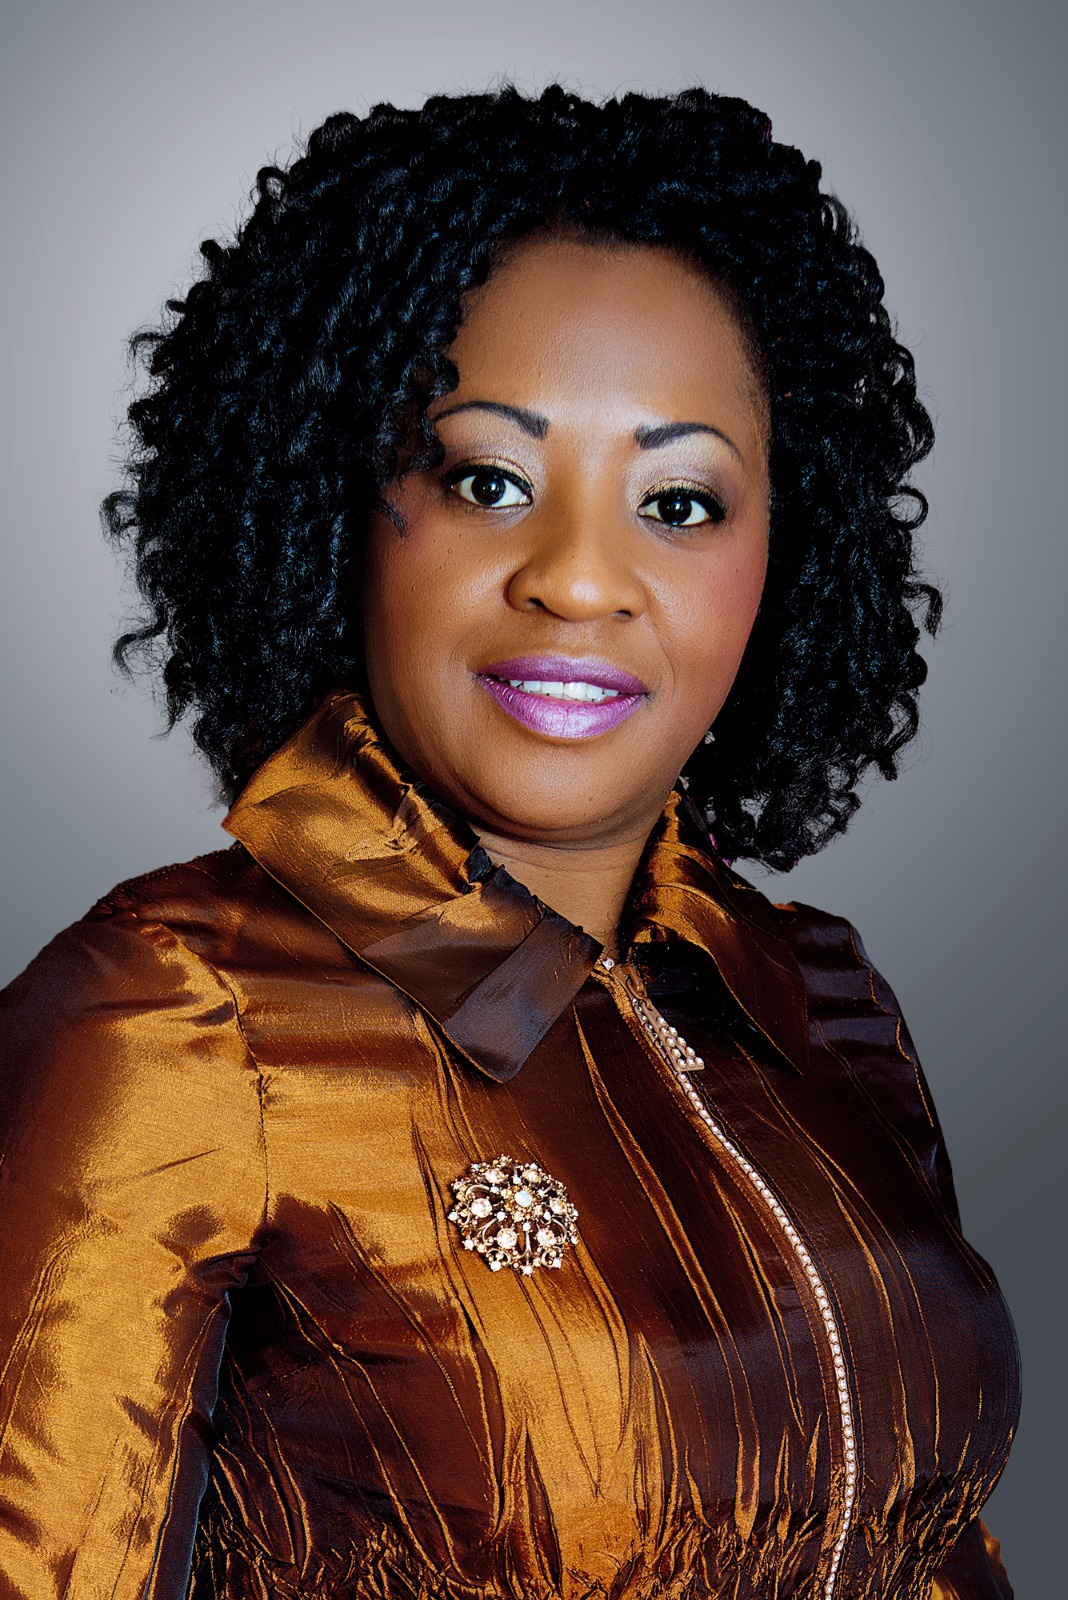
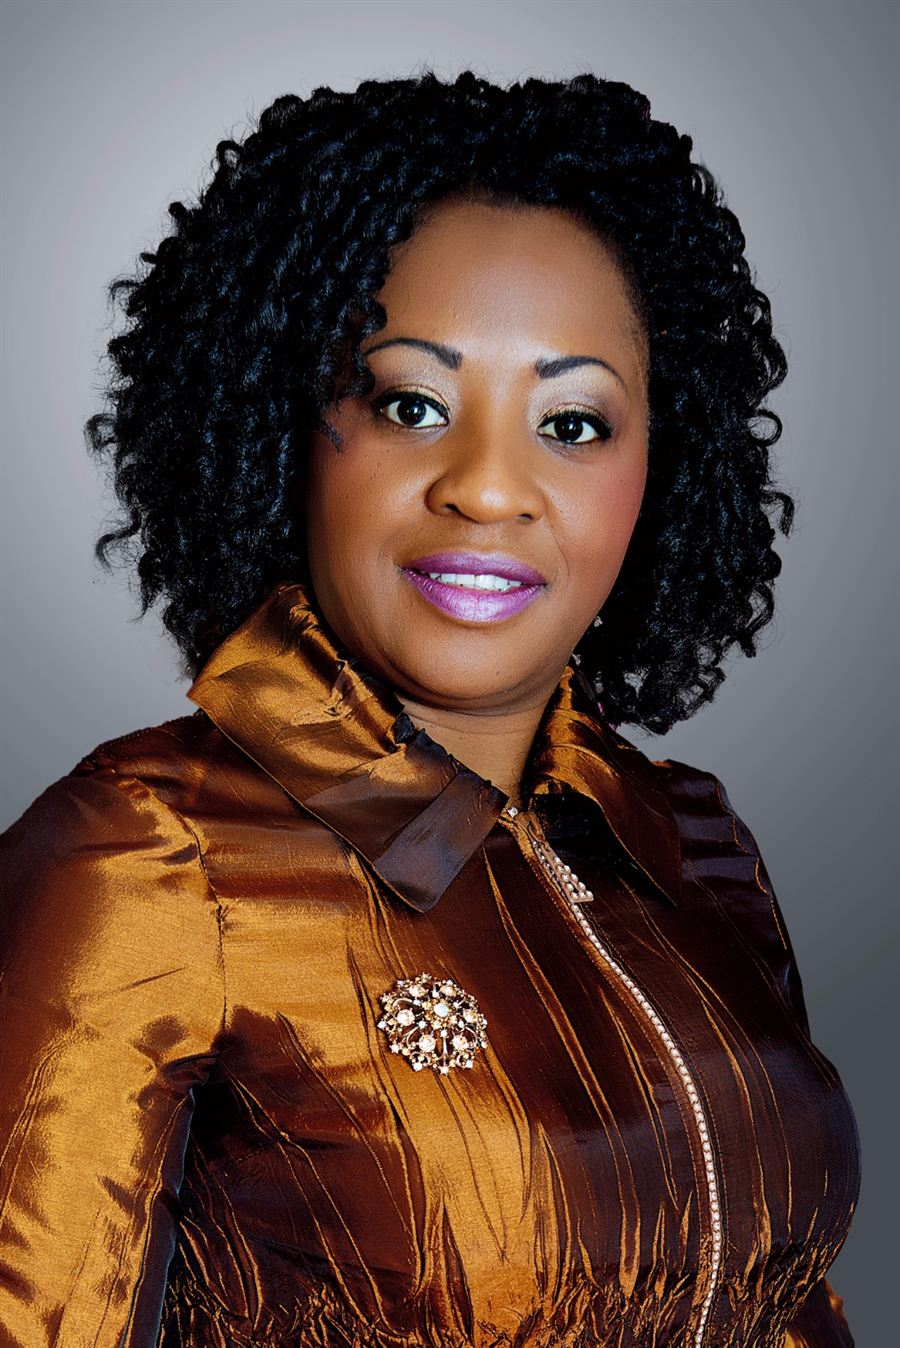
Site audit fixes: one h1 on the homepage, Church structured data, lighter photos
- Homepage hero: only the first slide headline is an h1; the others are
  h2.hero__title styled the same (template in studio/shared/render.js)
- Homepage <head>: schema.org Church data built from Site Settings
  (cms:church-schema)
- Plan a Visit FAQ: times written in the site style (10:00 AM, 7:30 PM)
- Resized pastor-olu.jpeg, pastor-message.jpg and hero-3.jpg (1.4 MB -> 0.75 MB)
- sitemap.xml: lastmod updated for pages changed on 2026-11-14
- CLAUDE.md: current page list, hosting, menu and open launch items

diff --git a/index.html b/index.html
@@ -16,6 +16,42 @@
   <meta property="og:image" content="https://www.mercyseatchapel.org/assets/images/church-1705.jpg">
   <meta property="og:image:alt" content="Mercy Seat Chapel">
   <meta name="twitter:card" content="summary_large_image">
+  <!-- Church details for search engines (address, phone, social profiles), written from Site Settings in the dashboard -->
+  <!-- cms:church-schema -->
+  <script type="application/ld+json">
+  {
+    "@context": "https://schema.org",
+    "@type": "Church",
+    "name": "Mercy Seat Chapel",
+    "url": "https://www.mercyseatchapel.org/",
+    "logo": "https://www.mercyseatchapel.org/assets/images/mercy-seat-logo-blue.png",
+    "image": "https://www.mercyseatchapel.org/assets/images/church-1705.jpg",
+    "telephone": "+13017408118",
+    "email": "info@mercyseatchapel.org",
+    "address": {
+      "@type": "PostalAddress",
+      "streetAddress": "17604 Washington Grove Lane",
+      "addressLocality": "Gaithersburg",
+      "addressRegion": "MD",
+      "postalCode": "20877",
+      "addressCountry": "US"
+    },
+    "hasMap": "https://www.google.com/maps/search/?api=1&query=17604+Washington+Grove+Lane+Gaithersburg+MD+20877",
+    "parentOrganization": {
+      "@type": "Organization",
+      "name": "The Redeemed Christian Church of God",
+      "url": "https://rccg.org"
+    },
+    "sameAs": [
+      "https://www.youtube.com/c/Mercyseatchapel",
+      "https://www.instagram.com/mercyseatchapel/",
+      "https://www.facebook.com/Mercyseatchapel/",
+      "https://twitter.com/mercyseatchapel",
+      "https://www.tiktok.com/@mercyseatchapel"
+    ]
+  }
+  </script>
+  <!-- /cms:church-schema -->
   <link rel="preconnect" href="https://fonts.googleapis.com">
   <link rel="preconnect" href="https://fonts.gstatic.com" crossorigin>
   <link href="https://fonts.googleapis.com/css2?family=Montserrat:wght@600;700;800&family=DM+Sans:opsz,wght@9..40,400;9..40,500;9..40,600;9..40,700&display=swap" rel="stylesheet">
@@ -59,11 +95,11 @@
                 <p class="hero__lead">A vibrant community, offering faith, love, hope and a wide range of resources, events, and uplifting messages</p>
               </div>
               <div class="hero__text">
-                <h1>Encounter His <em>Presence</em>. Discover your <em>Purpose</em>.</h1>
+                <h2 class="hero__title">Encounter His <em>Presence</em>. Discover your <em>Purpose</em>.</h2>
                 <p class="hero__lead">Through worship, the Word and prayer, experience God in a way that transforms every area of your life.</p>
               </div>
               <div class="hero__text">
-                <h1>Come as you are. There’s a <em>place</em> for <em>you</em> here.</h1>
+                <h2 class="hero__title">Come as you are. There’s a <em>place</em> for <em>you</em> here.</h2>
                 <p class="hero__lead">Whoever you are and wherever you’re from, you’ll find a warm welcome and a church family ready to walk with you.</p>
               </div>
               <!-- /cms:hero-texts -->

diff --git a/studio/shared/render.js b/studio/shared/render.js
@@ -207,6 +207,27 @@ export function recurringAsSlide(e, today) {
 }
 
 /** Events page: one row of "Regular gatherings". */
+/** Homepage <head>: schema.org "Church" details for search engines (name, address, phone,
+    email, social profiles), taken from Site Settings so they never disagree with the footer. */
+export function churchSchema(site, base = "https://www.mercyseatchapel.org") {
+  const m = String(site.address || "").match(/^(.+?),\s*([^,]+),\s*([A-Z]{2})\s+(\d{5})/); // "street, city, ST 12345"
+  const data = {
+    "@context": "https://schema.org",
+    "@type": "Church",
+    name: "Mercy Seat Chapel",
+    url: base + "/",
+    logo: base + "/assets/images/mercy-seat-logo-blue.png",
+    image: base + "/assets/images/church-1705.jpg", // same picture as the homepage link preview
+    telephone: site.phoneHref ? site.phoneHref.replace(/^tel:/, "") : undefined,
+    email: site.email || undefined,
+    address: m ? { "@type": "PostalAddress", streetAddress: m[1], addressLocality: m[2], addressRegion: m[3], postalCode: m[4], addressCountry: "US" } : undefined,
+    hasMap: site.mapsUrl || undefined,
+    parentOrganization: { "@type": "Organization", name: "The Redeemed Christian Church of God", url: "https://rccg.org" },
+    sameAs: Object.values(site.social || {}).filter((u) => /^https?:/.test(u))
+  };
+  return `<script type="application/ld+json">\n${JSON.stringify(data, null, 2).replace(/</g, "\\u003c")}\n</script>`;
+}
+
 /** Plan a Visit FAQ: every regular gathering in one sentence, with when it happens in brackets, e.g.
     "Our regular gatherings include Sunday Service (every Sunday, 10:00 AM), …, and Morning Glory (1st of every month, 6:00 AM)." */
 const lowerFirst = (s) => s.charAt(0).toLowerCase() + s.slice(1);
@@ -277,7 +298,8 @@ export function heroParts(c, home) {
   }).join("\n");
   const texts = slides.map((s, i) => lines(
     `<div class="hero__text${i === 0 ? " is-active" : ""}">`,
-    `  <h1>${emphasis(s.heading)}</h1>`,
+    // One h1 per page: the first slide's headline; later slides use an h2 that looks the same
+    i === 0 ? `  <h1>${emphasis(s.heading)}</h1>` : `  <h2 class="hero__title">${emphasis(s.heading)}</h2>`,
     s.lead && `  <p class="hero__lead">${esc(s.lead)}</p>`,
     `</div>`)).join("\n");
   const thumbs = slides.map((s, i) => {

diff --git a/plan-a-visit.html b/plan-a-visit.html
@@ -66,7 +66,7 @@
             </details>
             <details>
               <summary>When and where are the services?<span class="plus"><i data-lucide="plus"></i></span></summary>
-              <div class="faq__body"><p>We hold two weekly services: 10:00am on Sundays and 7:30pm on Tuesdays respectively. The first Sunday of each month is Thanksgiving Sunday, at 10am. All services take place in our main auditorium and are streamed live. We also hold a Holy Communion service on the first Tuesday of each month at 7:30pm.</p>
+              <div class="faq__body"><p>We hold two weekly services: Sundays at 10:00 AM and Tuesdays at 7:30 PM. The first Sunday of each month is Thanksgiving Sunday, at 10:00 AM. All services take place in our main auditorium and are streamed live. We also hold a Holy Communion service on the first Tuesday of each month at 7:30 PM.</p>
                 <!-- Written from the dashboard (Events → Regular gatherings), the same list as the Events page -->
                 <!-- cms:visit-gatherings -->
                 <p>Our regular gatherings include Sunday Service (every Sunday, 10:00 AM), Sunday School (every Sunday, 9:00 AM), Bible Study (every Tuesday, 7:30 PM), Midweek Prayer (every Wednesday, 9:00 PM), Thanksgiving Sunday (every 1st Sunday, 10:00 AM), Holy Communion Service (every 1st Tuesday, 7:30 PM), The Seed &amp; the Future (every 2nd Saturday, 12:00 – 1:00 PM), Evangelism (every 2nd Sunday, immediately after Sunday Service), Expectant Parents &amp; Pregnant Women Prayer Session (every 2nd Sunday, 1:00 PM), Morning Glory (1st of every month, 6:00 AM) and Nursing Home &amp; Shelter Visits (monthly).</p>

diff --git a/assets/css/style.css b/assets/css/style.css
@@ -87,6 +87,7 @@ small, .small { font-size: 14px; }
   body { font-size: 16px; }
   h1 { letter-spacing: -1px; }
   h2 { letter-spacing: -.5px; }
+  .hero .hero__title { letter-spacing: -1px; } /* matches h1 */
 }
 
 .skip-link {
@@ -381,8 +382,9 @@ body.menu-open { overflow: hidden; }
   font: 700 13px/1.3 var(--f-heading); letter-spacing: 1px; text-transform: uppercase;
 }
 .hero__kicker .dot { width: 8px; height: 8px; border-radius: 50%; background: var(--c-secondary); box-shadow: 0 0 0 4px rgba(255, 72, 94, .25); }
-.hero h1 { color: var(--c-white); font-size: var(--fs-h1); max-width: 900px; margin-bottom: 20px; }
-.hero h1 em, .page-hero h1 em { color: var(--c-white); }
+/* Only the first slide's headline is the page's h1; the others are h2s styled the same */
+.hero h1, .hero .hero__title { color: var(--c-white); font-size: var(--fs-h1); font-weight: 800; line-height: 1.12; letter-spacing: -1.5px; max-width: 900px; margin-bottom: 20px; }
+.hero h1 em, .hero .hero__title em, .page-hero h1 em { color: var(--c-white); }
 /* Per-slide headline + lead, stacked in one grid cell so the height stays steady */
 .hero__copy { display: grid; }
 .hero__text { grid-area: 1 / 1; opacity: 0; visibility: hidden; transform: translateY(12px); transition: opacity .7s var(--ease), transform .7s var(--ease), visibility .7s; }

diff --git a/our-vision-values.html b/our-vision-values.html
@@ -119,9 +119,9 @@
           </div>
           <!-- /cms:about-pillars -->
         </div>
-        <!-- Way back to the About page, and on to membership -->
+        <!-- Next steps: meet the leaders, or go on to membership -->
         <div class="btn-row btn-row--center reveal" style="margin-top:56px">
-          <a class="btn btn--outline" href="about.html"><i data-lucide="arrow-left"></i> Back to About</a>
+          <a class="btn btn--outline" href="leadership.html">Meet Our Leaders</a>
           <a class="btn btn--secondary" href="become-a-member.html">Become a Member <i data-lucide="arrow-right"></i></a>
         </div>
       </div>
